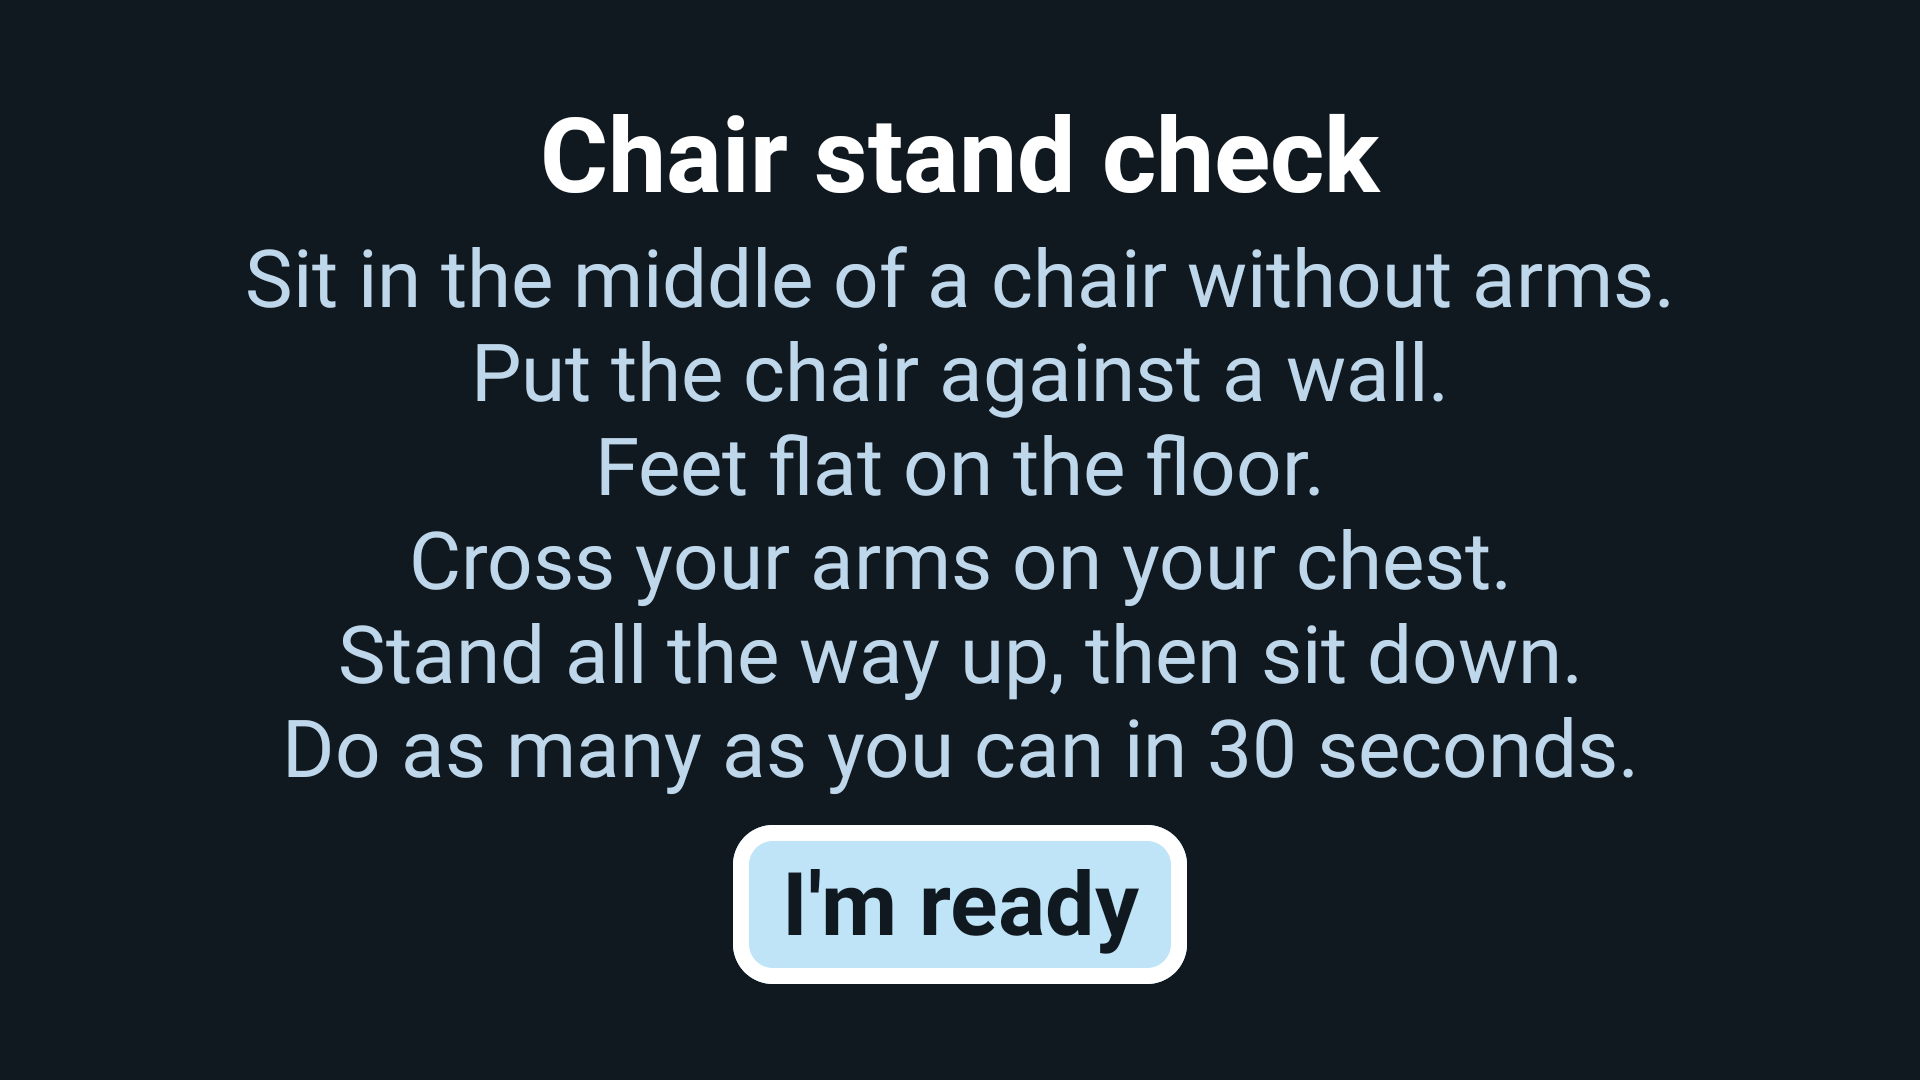
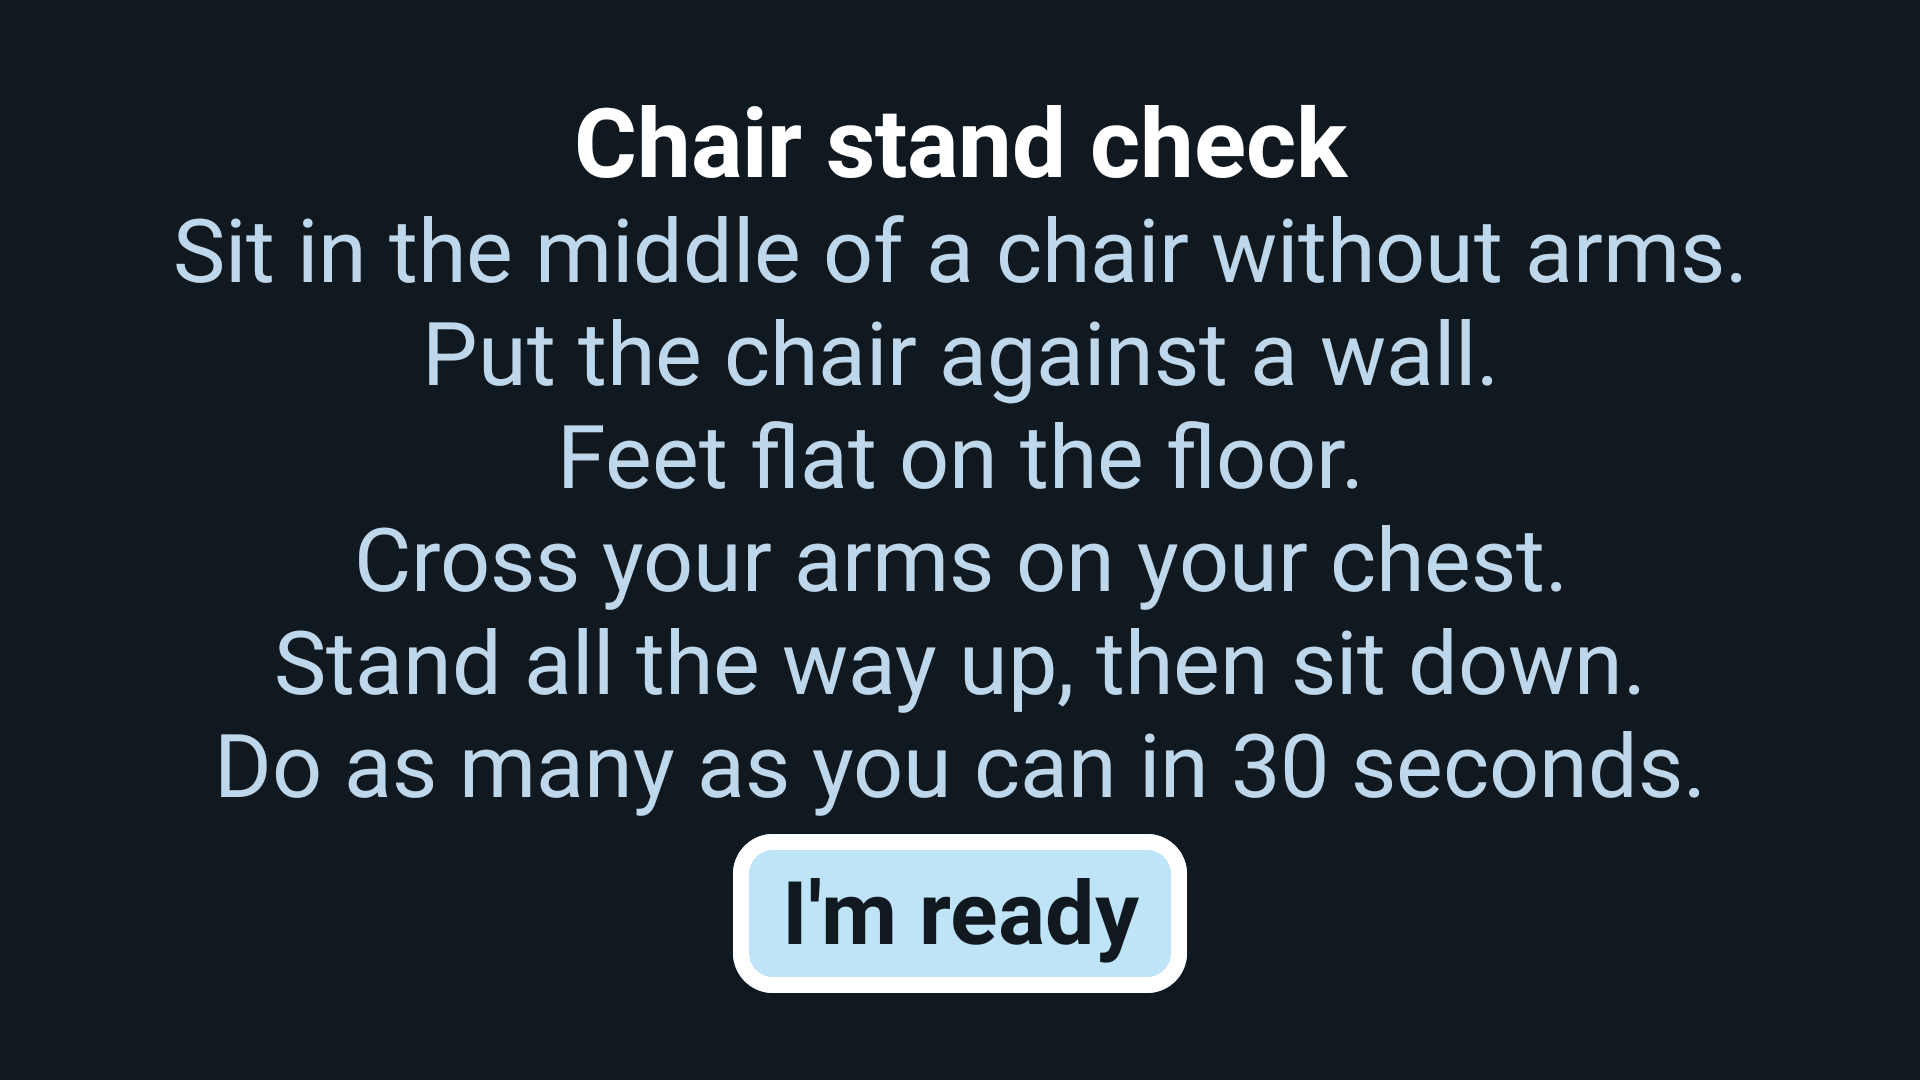
tv: chair stand instructions at 44 sp

Changed region(s): [[0.0938, 0.0917, 0.9062, 0.4583], [0.0938, 0.4889, 0.875, 0.9167]]

diff --git a/android/app/src/main/java/com/steadyup/tv/Screens.kt b/android/app/src/main/java/com/steadyup/tv/Screens.kt
@@ -328,13 +328,18 @@ fun ChairAboutScreen(age: Int, sex: Int, onAge: () -> Unit, onSex: () -> Unit, o
 
 @OptIn(ExperimentalTvMaterial3Api::class)
 @Composable
-fun ChairHowScreen(onReady: () -> Unit) = Page {
-    Text(Sentences.CHAIR_BUTTON, fontSize = 52.sp, fontWeight = FontWeight.Bold, color = Ink.text)
-    Spacer(Modifier.height(8.dp))
-    for (line in listOf(Sentences.CHAIR_HOW_1, Sentences.CHAIR_HOW_2, Sentences.CHAIR_HOW_3, Sentences.CHAIR_HOW_4, Sentences.CHAIR_HOW_5, Sentences.CHAIR_HOW_6))
-        Text(line, fontSize = 40.sp, color = Ink.soft, textAlign = TextAlign.Center)
-    Spacer(Modifier.height(14.dp))
-    BigButton(Sentences.INTRO_GO, onReady, fontSp = 44)
+fun ChairHowScreen(onReady: () -> Unit) {
+    // CDC's six instruction lines at 44 sp. Tighter margins than other screens so the six lines and the button all fit.
+    Column(
+        Modifier.fillMaxSize().background(Ink.bg).padding(horizontal = 48.dp, vertical = 14.dp),
+        verticalArrangement = Arrangement.Center, horizontalAlignment = Alignment.CenterHorizontally,
+    ) {
+        Text(Sentences.CHAIR_BUTTON, fontSize = 48.sp, fontWeight = FontWeight.Bold, color = Ink.text)
+        for (line in listOf(Sentences.CHAIR_HOW_1, Sentences.CHAIR_HOW_2, Sentences.CHAIR_HOW_3, Sentences.CHAIR_HOW_4, Sentences.CHAIR_HOW_5, Sentences.CHAIR_HOW_6))
+            Text(line, fontSize = 44.sp, color = Ink.soft, textAlign = TextAlign.Center, lineHeight = 50.sp)
+        Spacer(Modifier.height(8.dp))
+        BigButton(Sentences.INTRO_GO, onReady, fontSp = 44)
+    }
 }
 
 @Composable
